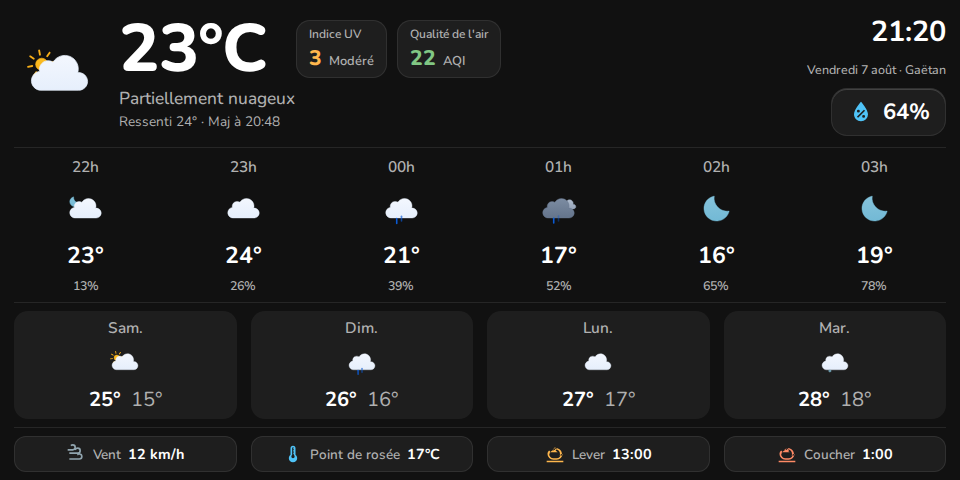
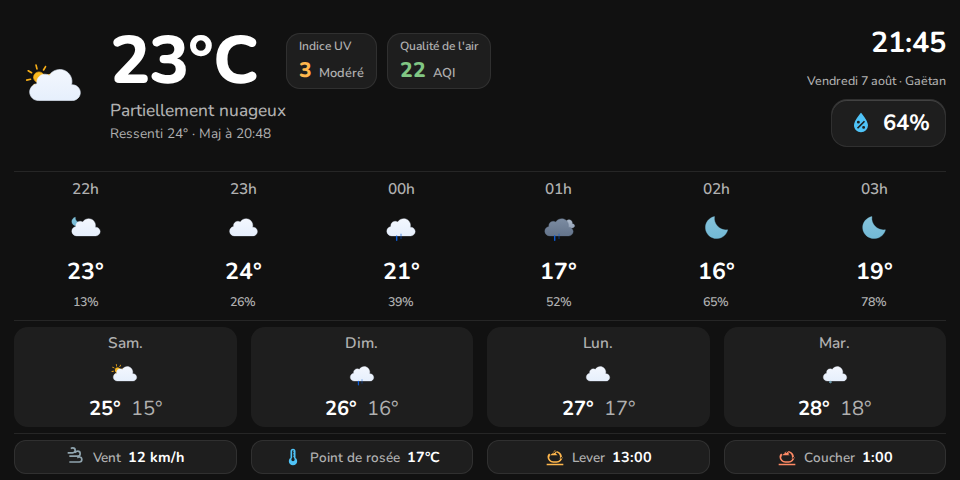
fix: fall back to HA theme font, add real layout safety margin
Deux correctifs suite à un test sur le vrai Echo Show 5 :

- La police ne s'appliquait pas car View Assist change probablement
  la police via la variable de thème HA standard (--primary-font-family),
  pas via notre --echo-weather-font-family. On la lit maintenant en
  repli intermédiaire (même logique déjà en place pour --_text-color
  avec --primary-text-color) : font-family: var(--echo-weather-
  font-family, var(--primary-font-family, inherit)).

- Le bandeau du bas était coupé à mi-hauteur sur l'appareil réel alors
  que le harness de test (960x480 pile) ne montrait aucun dépassement.
  Diagnostic : .current et .hourly utilisent flex:1 (grow+shrink), donc
  le harness rapporte TOUJOURS cardScrollHeight == cardClientHeight à
  480px tant que le contenu minimal peut être compressé jusque-là — un
  angle mort qui masquait le fait qu'il n'y avait presque aucune marge
  réelle. Mesure de la hauteur naturelle (non contrainte) : ~441px
  avec Nunito avant ce commit sur les valeurs déjà en place, encore
  trop juste si le conteneur réel donné par View Assist est ne
  serait-ce qu'un peu inférieur à 480px plein écran. Resserré encore
  (row-gap, icon-size, paddings tuiles/quotidien) pour de la vraie
  marge plutôt qu'un pile-poil à 480px.

diff --git a/dist/echo-weather-card.js b/dist/echo-weather-card.js
@@ -48,7 +48,7 @@ const Se = (r) => new ge(typeof r == "string" ? r : r + "", void 0, Y), Ce = (r,
  * Copyright 2017 Google LLC
  * SPDX-License-Identifier: BSD-3-Clause
  */
-const { is: Pe, defineProperty: Te, getOwnPropertyDescriptor: ze, getOwnPropertyNames: Re, getOwnPropertySymbols: Ue, getPrototypeOf: Ne } = Object, y = globalThis, ee = y.trustedTypes, ke = ee ? ee.emptyScript : "", L = y.reactiveElementPolyfillSupport, C = (r, e) => r, V = { toAttribute(r, e) {
+const { is: Pe, defineProperty: Te, getOwnPropertyDescriptor: ze, getOwnPropertyNames: Re, getOwnPropertySymbols: Ue, getPrototypeOf: Ne } = Object, v = globalThis, ee = v.trustedTypes, ke = ee ? ee.emptyScript : "", q = v.reactiveElementPolyfillSupport, C = (r, e) => r, V = { toAttribute(r, e) {
   switch (e) {
     case Boolean:
       r = r ? ke : null;
@@ -76,9 +76,9 @@ const { is: Pe, defineProperty: Te, getOwnPropertyDescriptor: ze, getOwnProperty
       }
   }
   return t;
-} }, ye = (r, e) => !Pe(r, e), te = { attribute: !0, type: String, converter: V, reflect: !1, useDefault: !1, hasChanged: ye };
+} }, ve = (r, e) => !Pe(r, e), te = { attribute: !0, type: String, converter: V, reflect: !1, useDefault: !1, hasChanged: ve };
 var he, ue;
-(he = Symbol.metadata) != null || (Symbol.metadata = Symbol("metadata")), (ue = y.litPropertyMetadata) != null || (y.litPropertyMetadata = /* @__PURE__ */ new WeakMap());
+(he = Symbol.metadata) != null || (Symbol.metadata = Symbol("metadata")), (ue = v.litPropertyMetadata) != null || (v.litPropertyMetadata = /* @__PURE__ */ new WeakMap());
 let A = class extends HTMLElement {
   static addInitializer(e) {
     var t;
@@ -210,7 +210,7 @@ let A = class extends HTMLElement {
     var o, l;
     if (e !== void 0) {
       const a = this.constructor;
-      if (s === !1 && (n = this[e]), i != null || (i = a.getPropertyOptions(e)), !(((o = i.hasChanged) != null ? o : ye)(n, t) || i.useDefault && i.reflect && n === ((l = this._$Ej) == null ? void 0 : l.get(e)) && !this.hasAttribute(a._$Eu(e, i)))) return;
+      if (s === !1 && (n = this[e]), i != null || (i = a.getPropertyOptions(e)), !(((o = i.hasChanged) != null ? o : ve)(n, t) || i.useDefault && i.reflect && n === ((l = this._$Ej) == null ? void 0 : l.get(e)) && !this.hasAttribute(a._$Eu(e, i)))) return;
       this.C(e, t, i);
     }
     this.isUpdatePending === !1 && (this._$ES = this._$EP());
@@ -288,28 +288,28 @@ let A = class extends HTMLElement {
   }
 };
 var pe;
-A.elementStyles = [], A.shadowRootOptions = { mode: "open" }, A[C("elementProperties")] = /* @__PURE__ */ new Map(), A[C("finalized")] = /* @__PURE__ */ new Map(), L == null || L({ ReactiveElement: A }), ((pe = y.reactiveElementVersions) != null ? pe : y.reactiveElementVersions = []).push("2.1.2");
+A.elementStyles = [], A.shadowRootOptions = { mode: "open" }, A[C("elementProperties")] = /* @__PURE__ */ new Map(), A[C("finalized")] = /* @__PURE__ */ new Map(), q == null || q({ ReactiveElement: A }), ((pe = v.reactiveElementVersions) != null ? pe : v.reactiveElementVersions = []).push("2.1.2");
 /**
  * @license
  * Copyright 2017 Google LLC
  * SPDX-License-Identifier: BSD-3-Clause
  */
-const M = globalThis, ie = (r) => r, O = M.trustedTypes, se = O ? O.createPolicy("lit-html", { createHTML: (r) => r }) : void 0, ve = "$lit$", g = `lit$${Math.random().toFixed(9).slice(2)}$`, $e = "?" + g, Oe = `<${$e}>`, w = document, T = () => w.createComment(""), z = (r) => r === null || typeof r != "object" && typeof r != "function", Z = Array.isArray, De = (r) => Z(r) || typeof (r == null ? void 0 : r[Symbol.iterator]) == "function", q = `[ 	
-\f\r]`, S = /<(?:(!--|\/[^a-zA-Z])|(\/?[a-zA-Z][^>\s]*)|(\/?$))/g, re = /-->/g, ne = />/g, v = RegExp(`>|${q}(?:([^\\s"'>=/]+)(${q}*=${q}*(?:[^ 	
+const M = globalThis, ie = (r) => r, O = M.trustedTypes, se = O ? O.createPolicy("lit-html", { createHTML: (r) => r }) : void 0, ye = "$lit$", g = `lit$${Math.random().toFixed(9).slice(2)}$`, $e = "?" + g, Oe = `<${$e}>`, w = document, T = () => w.createComment(""), z = (r) => r === null || typeof r != "object" && typeof r != "function", Z = Array.isArray, De = (r) => Z(r) || typeof (r == null ? void 0 : r[Symbol.iterator]) == "function", L = `[ 	
+\f\r]`, S = /<(?:(!--|\/[^a-zA-Z])|(\/?[a-zA-Z][^>\s]*)|(\/?$))/g, re = /-->/g, ne = />/g, y = RegExp(`>|${L}(?:([^\\s"'>=/]+)(${L}*=${L}*(?:[^ 	
 \f\r"'\`<>=]|("|')|))|$)`, "g"), oe = /'/g, ae = /"/g, be = /^(?:script|style|textarea|title)$/i, He = (r) => (e, ...t) => ({ _$litType$: r, strings: e, values: t }), p = He(1), x = Symbol.for("lit-noChange"), d = Symbol.for("lit-nothing"), le = /* @__PURE__ */ new WeakMap(), $ = w.createTreeWalker(w, 129);
 function we(r, e) {
   if (!Z(r) || !r.hasOwnProperty("raw")) throw Error("invalid template strings array");
   return se !== void 0 ? se.createHTML(e) : e;
 }
-const Le = (r, e) => {
+const qe = (r, e) => {
   const t = r.length - 1, i = [];
   let s, n = e === 2 ? "<svg>" : e === 3 ? "<math>" : "", o = S;
   for (let l = 0; l < t; l++) {
     const a = r[l];
     let c, h, u = -1, _ = 0;
-    for (; _ < a.length && (o.lastIndex = _, h = o.exec(a), h !== null); ) _ = o.lastIndex, o === S ? h[1] === "!--" ? o = re : h[1] !== void 0 ? o = ne : h[2] !== void 0 ? (be.test(h[2]) && (s = RegExp("</" + h[2], "g")), o = v) : h[3] !== void 0 && (o = v) : o === v ? h[0] === ">" ? (o = s != null ? s : S, u = -1) : h[1] === void 0 ? u = -2 : (u = o.lastIndex - h[2].length, c = h[1], o = h[3] === void 0 ? v : h[3] === '"' ? ae : oe) : o === ae || o === oe ? o = v : o === re || o === ne ? o = S : (o = v, s = void 0);
-    const m = o === v && r[l + 1].startsWith("/>") ? " " : "";
-    n += o === S ? a + Oe : u >= 0 ? (i.push(c), a.slice(0, u) + ve + a.slice(u) + g + m) : a + g + (u === -2 ? l : m);
+    for (; _ < a.length && (o.lastIndex = _, h = o.exec(a), h !== null); ) _ = o.lastIndex, o === S ? h[1] === "!--" ? o = re : h[1] !== void 0 ? o = ne : h[2] !== void 0 ? (be.test(h[2]) && (s = RegExp("</" + h[2], "g")), o = y) : h[3] !== void 0 && (o = y) : o === y ? h[0] === ">" ? (o = s != null ? s : S, u = -1) : h[1] === void 0 ? u = -2 : (u = o.lastIndex - h[2].length, c = h[1], o = h[3] === void 0 ? y : h[3] === '"' ? ae : oe) : o === ae || o === oe ? o = y : o === re || o === ne ? o = S : (o = y, s = void 0);
+    const m = o === y && r[l + 1].startsWith("/>") ? " " : "";
+    n += o === S ? a + Oe : u >= 0 ? (i.push(c), a.slice(0, u) + ye + a.slice(u) + g + m) : a + g + (u === -2 ? l : m);
   }
   return [we(r, n + (r[t] || "<?>") + (e === 2 ? "</svg>" : e === 3 ? "</math>" : "")), i];
 };
@@ -318,14 +318,14 @@ class R {
     let s;
     this.parts = [];
     let n = 0, o = 0;
-    const l = e.length - 1, a = this.parts, [c, h] = Le(e, t);
+    const l = e.length - 1, a = this.parts, [c, h] = qe(e, t);
     if (this.el = R.createElement(c, i), $.currentNode = this.el.content, t === 2 || t === 3) {
       const u = this.el.content.firstChild;
       u.replaceWith(...u.childNodes);
     }
     for (; (s = $.nextNode()) !== null && a.length < l; ) {
       if (s.nodeType === 1) {
-        if (s.hasAttributes()) for (const u of s.getAttributeNames()) if (u.endsWith(ve)) {
+        if (s.hasAttributes()) for (const u of s.getAttributeNames()) if (u.endsWith(ye)) {
           const _ = h[o++], m = s.getAttribute(u).split(g), f = /([.?@])?(.*)/.exec(_);
           a.push({ type: 1, index: n, name: f[2], strings: m, ctor: f[1] === "." ? Be : f[1] === "?" ? Ie : f[1] === "@" ? Fe : D }), s.removeAttribute(u);
         } else u.startsWith(g) && (a.push({ type: 6, index: n }), s.removeAttribute(u));
@@ -357,7 +357,7 @@ function E(r, e, t = r, i) {
   const n = z(e) ? void 0 : e._$litDirective$;
   return (s == null ? void 0 : s.constructor) !== n && ((l = s == null ? void 0 : s._$AO) == null || l.call(s, !1), n === void 0 ? s = void 0 : (s = new n(r), s._$AT(r, t, i)), i !== void 0 ? ((a = t._$Co) != null ? a : t._$Co = [])[i] = s : t._$Cl = s), s !== void 0 && (e = E(r, s._$AS(r, e.values), s, i)), e;
 }
-class qe {
+class Le {
   constructor(e, t) {
     this._$AV = [], this._$AN = void 0, this._$AD = e, this._$AM = t;
   }
@@ -423,7 +423,7 @@ class U {
     const { values: t, _$litType$: i } = e, s = typeof i == "number" ? this._$AC(e) : (i.el === void 0 && (i.el = R.createElement(we(i.h, i.h[0]), this.options)), i);
     if (((n = this._$AH) == null ? void 0 : n._$AD) === s) this._$AH.p(t);
     else {
-      const o = new qe(s, this), l = o.u(this.options);
+      const o = new Le(s, this), l = o.u(this.options);
       o.p(t), this.T(l), this._$AH = o;
     }
   }
@@ -1345,8 +1345,8 @@ H(j, "properties", {
          entre icônes/tuiles) : on tient désormais 4 blocs empilés (actuelle,
          horaire, quotidienne, bandeau bas) dans les mêmes 480px, un peu
          moins d'air entre eux était nécessaire pour que tout rentre. */
-      --_row-gap: var(--echo-weather-row-gap, 8px);
-      --_icon-size: var(--echo-weather-icon-size, clamp(70px, 9.5cqw, 92px));
+      --_row-gap: var(--echo-weather-row-gap, 6px);
+      --_icon-size: var(--echo-weather-icon-size, clamp(64px, 8.5cqw, 84px));
       --_current-temp-size: var(
         --echo-weather-current-temp-size,
         clamp(2.75rem, 7cqw, 4.25rem)
@@ -1369,7 +1369,16 @@ H(j, "properties", {
       );
       --_divider-color: var(--echo-weather-divider-color, rgba(127, 127, 127, 0.2));
       --_tile-background: var(--echo-weather-tile-background, rgba(127, 127, 127, 0.13));
-      font-family: var(--echo-weather-font-family, inherit);
+      /* --primary-font-family est la variable de thème HA standard (ce que
+         change un thème/View Assist quand on choisit une police) : on la
+         lit en repli avant d'abandonner à inherit, sinon un changement de
+         police fait via le thème plutôt que via notre propre variable
+         n'atteint jamais la carte (même logique déjà appliquée à
+         --_text-color juste au-dessus, avec --primary-text-color). */
+      font-family: var(
+        --echo-weather-font-family,
+        var(--primary-font-family, inherit)
+      );
       color: var(--_text-color);
     }
 
@@ -1440,7 +1449,7 @@ H(j, "properties", {
       display: flex;
       flex-direction: column;
       gap: 2px;
-      padding: 5px 12px;
+      padding: 4px 12px;
       border-radius: 14px;
       background: var(--_tile-background);
       border: 1px solid var(--_divider-color);
@@ -1570,10 +1579,10 @@ H(j, "properties", {
       display: flex;
       flex-direction: column;
       align-items: center;
-      gap: 3px;
+      gap: 2px;
       flex: 1;
       min-width: 0;
-      padding: 6px 4px;
+      padding: 5px 4px;
       border-radius: 14px;
       background: var(--_tile-background);
     }
@@ -1616,7 +1625,7 @@ H(j, "properties", {
       gap: 7px;
       flex: 1;
       min-width: 0;
-      padding: 7px 10px;
+      padding: 6px 10px;
       border-radius: 12px;
       background: var(--_tile-background);
       border: 1px solid var(--_divider-color);

diff --git a/src/echo-weather-card.js b/src/echo-weather-card.js
@@ -416,8 +416,8 @@ class EchoWeatherCard extends LitElement {
          entre icônes/tuiles) : on tient désormais 4 blocs empilés (actuelle,
          horaire, quotidienne, bandeau bas) dans les mêmes 480px, un peu
          moins d'air entre eux était nécessaire pour que tout rentre. */
-      --_row-gap: var(--echo-weather-row-gap, 8px);
-      --_icon-size: var(--echo-weather-icon-size, clamp(70px, 9.5cqw, 92px));
+      --_row-gap: var(--echo-weather-row-gap, 6px);
+      --_icon-size: var(--echo-weather-icon-size, clamp(64px, 8.5cqw, 84px));
       --_current-temp-size: var(
         --echo-weather-current-temp-size,
         clamp(2.75rem, 7cqw, 4.25rem)
@@ -440,7 +440,16 @@ class EchoWeatherCard extends LitElement {
       );
       --_divider-color: var(--echo-weather-divider-color, rgba(127, 127, 127, 0.2));
       --_tile-background: var(--echo-weather-tile-background, rgba(127, 127, 127, 0.13));
-      font-family: var(--echo-weather-font-family, inherit);
+      /* --primary-font-family est la variable de thème HA standard (ce que
+         change un thème/View Assist quand on choisit une police) : on la
+         lit en repli avant d'abandonner à inherit, sinon un changement de
+         police fait via le thème plutôt que via notre propre variable
+         n'atteint jamais la carte (même logique déjà appliquée à
+         --_text-color juste au-dessus, avec --primary-text-color). */
+      font-family: var(
+        --echo-weather-font-family,
+        var(--primary-font-family, inherit)
+      );
       color: var(--_text-color);
     }
 
@@ -511,7 +520,7 @@ class EchoWeatherCard extends LitElement {
       display: flex;
       flex-direction: column;
       gap: 2px;
-      padding: 5px 12px;
+      padding: 4px 12px;
       border-radius: 14px;
       background: var(--_tile-background);
       border: 1px solid var(--_divider-color);
@@ -641,10 +650,10 @@ class EchoWeatherCard extends LitElement {
       display: flex;
       flex-direction: column;
       align-items: center;
-      gap: 3px;
+      gap: 2px;
       flex: 1;
       min-width: 0;
-      padding: 6px 4px;
+      padding: 5px 4px;
       border-radius: 14px;
       background: var(--_tile-background);
     }
@@ -687,7 +696,7 @@ class EchoWeatherCard extends LitElement {
       gap: 7px;
       flex: 1;
       min-width: 0;
-      padding: 7px 10px;
+      padding: 6px 10px;
       border-radius: 12px;
       background: var(--_tile-background);
       border: 1px solid var(--_divider-color);
